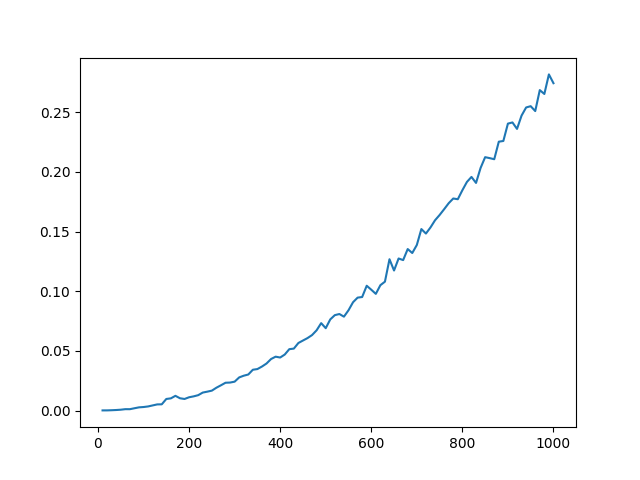
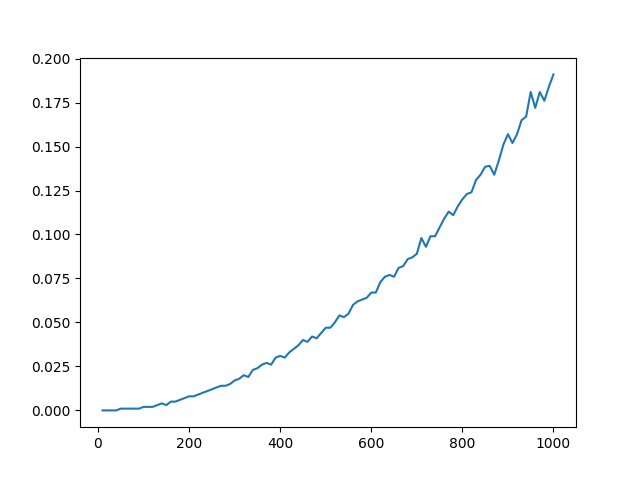
Add heap sort

diff --git a/HeapSort.py b/HeapSort.py
@@ -1,0 +1,59 @@
+import random, time
+import matplotlib.pyplot as plt
+
+class testCase:
+    def __init__(self):
+        self.listSize = 0
+        self.list = []
+        self.compareCount = 0
+        self.beforeTime = 0
+        self.afterTime = 0
+
+def heapify(unsorted, index, heap_size):
+    largest = index
+    left_index = 2 * index + 1
+    right_index = 2 * index + 2
+    if left_index < heap_size and unsorted[left_index] > unsorted[largest]:
+        largest = left_index
+    if right_index < heap_size and unsorted[right_index] > unsorted[largest]:
+        largest = right_index
+    if largest != index:
+        unsorted[largest], unsorted[index] = unsorted[index], unsorted[largest]
+        heapify(unsorted, largest, heap_size)
+
+def heapSort(unsorted):
+    n = len(unsorted)
+    
+    for i in range(n // 2 - 1, -1, -1):
+        heapify(unsorted, i, n)
+
+    for i in range(n - 1, 0, -1):
+        unsorted[0], unsorted[i] = unsorted[i], unsorted[0]
+        heapify(unsorted, 0, i)
+    return unsorted
+    
+lists = []
+for i in range(10, 1001, 10): #10에서 1000까지(100번)
+    
+    case = testCase()
+    case.listSize = i
+        
+    for i in range(1, i):
+        case.list.append(random.randrange(1, 10000))
+    
+    print("original List : ", case.list)
+    case.beforeTime = time.time()
+    case.list = heapSort(case.list)
+    case.afterTime = time.time()
+    print("sorted List : ", case.list)
+    lists.append(case)
+
+x = []
+for i in range(0, 100):
+    x.append(lists[i].listSize)
+y = []
+for i in range(0, 100):
+    y.append(lists[i].afterTime - lists[i].beforeTime)
+
+plt.plot(x, y) 
+plt.savefig('./img/heapSortTime.png')

diff --git a/BubbleSort.py b/BubbleSort.py
@@ -53,4 +53,3 @@ plt.savefig('./img/bubbleSortTime.png')
 plt.cla()
 plt.plot(x, y2)
 plt.savefig('./img/bubbleSortCount.png')
-print("test")

diff --git a/readme.md b/readme.md
@@ -18,4 +18,6 @@
 * 리스트 크기-연산 시간 그래프
     ![그래프](./img/mergeSortTime.png)
 ## 힙 정렬(Heap Sort)
+* 리스트 크기-연산 시간 그래프
+    ![그래프](./img/heapSortTime.png)
 ## 퀵 정렬(Quick Sort)
